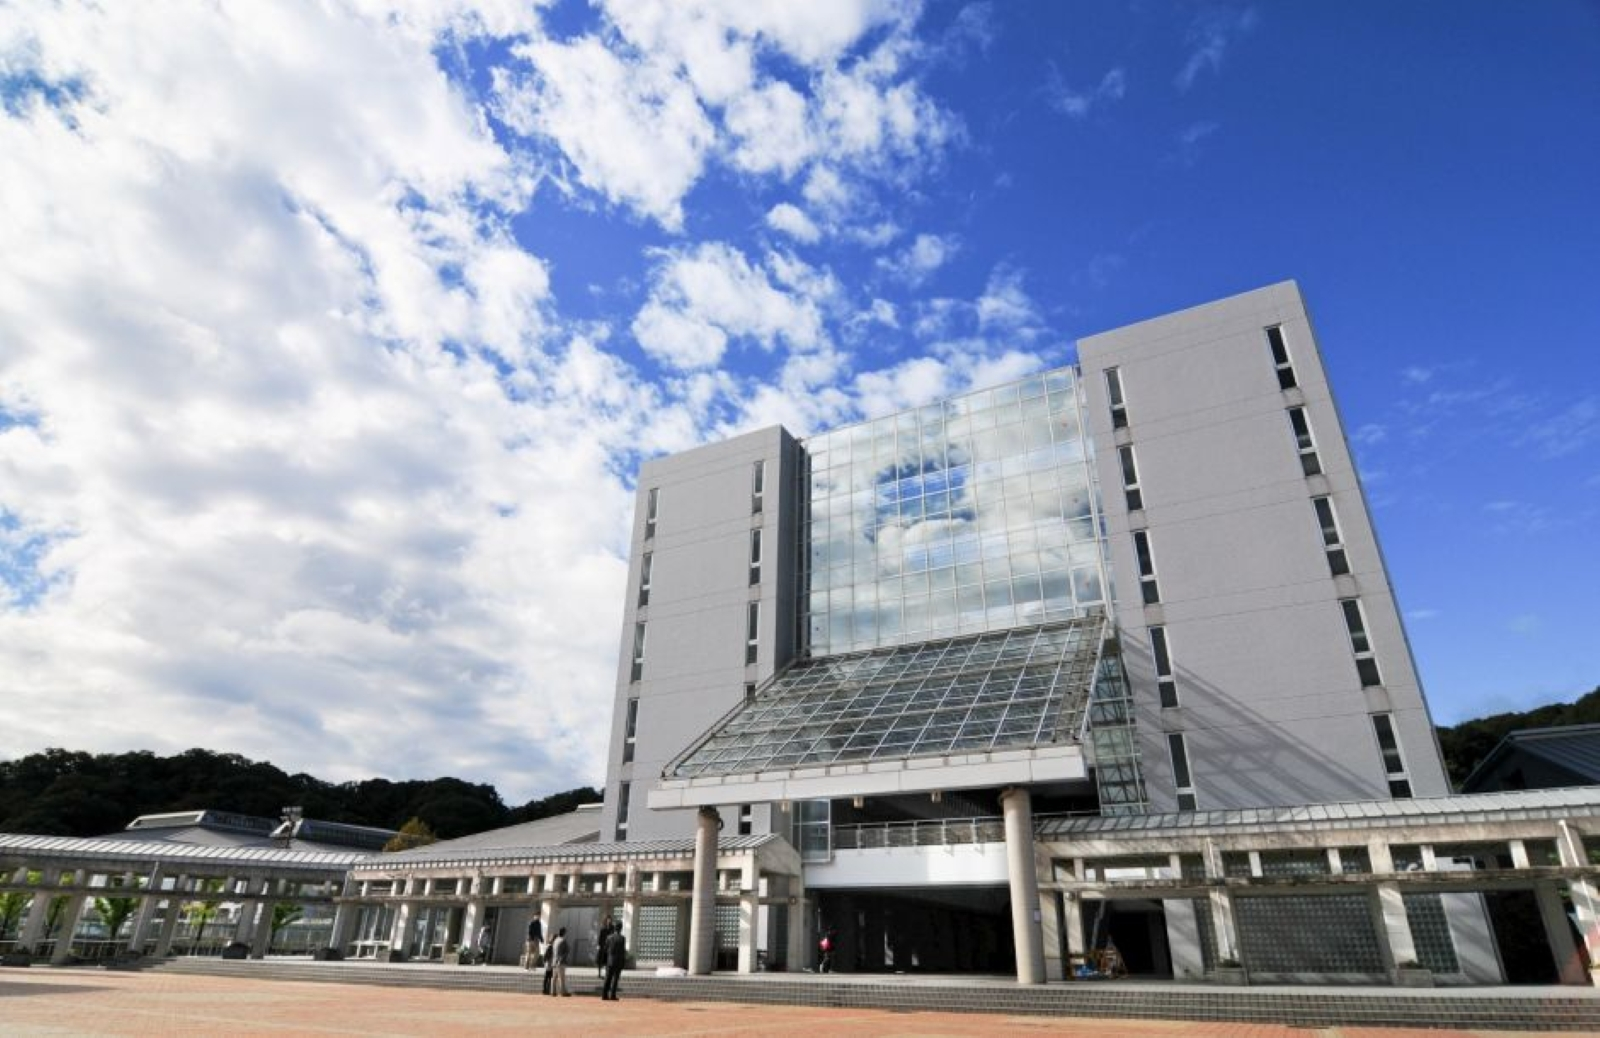
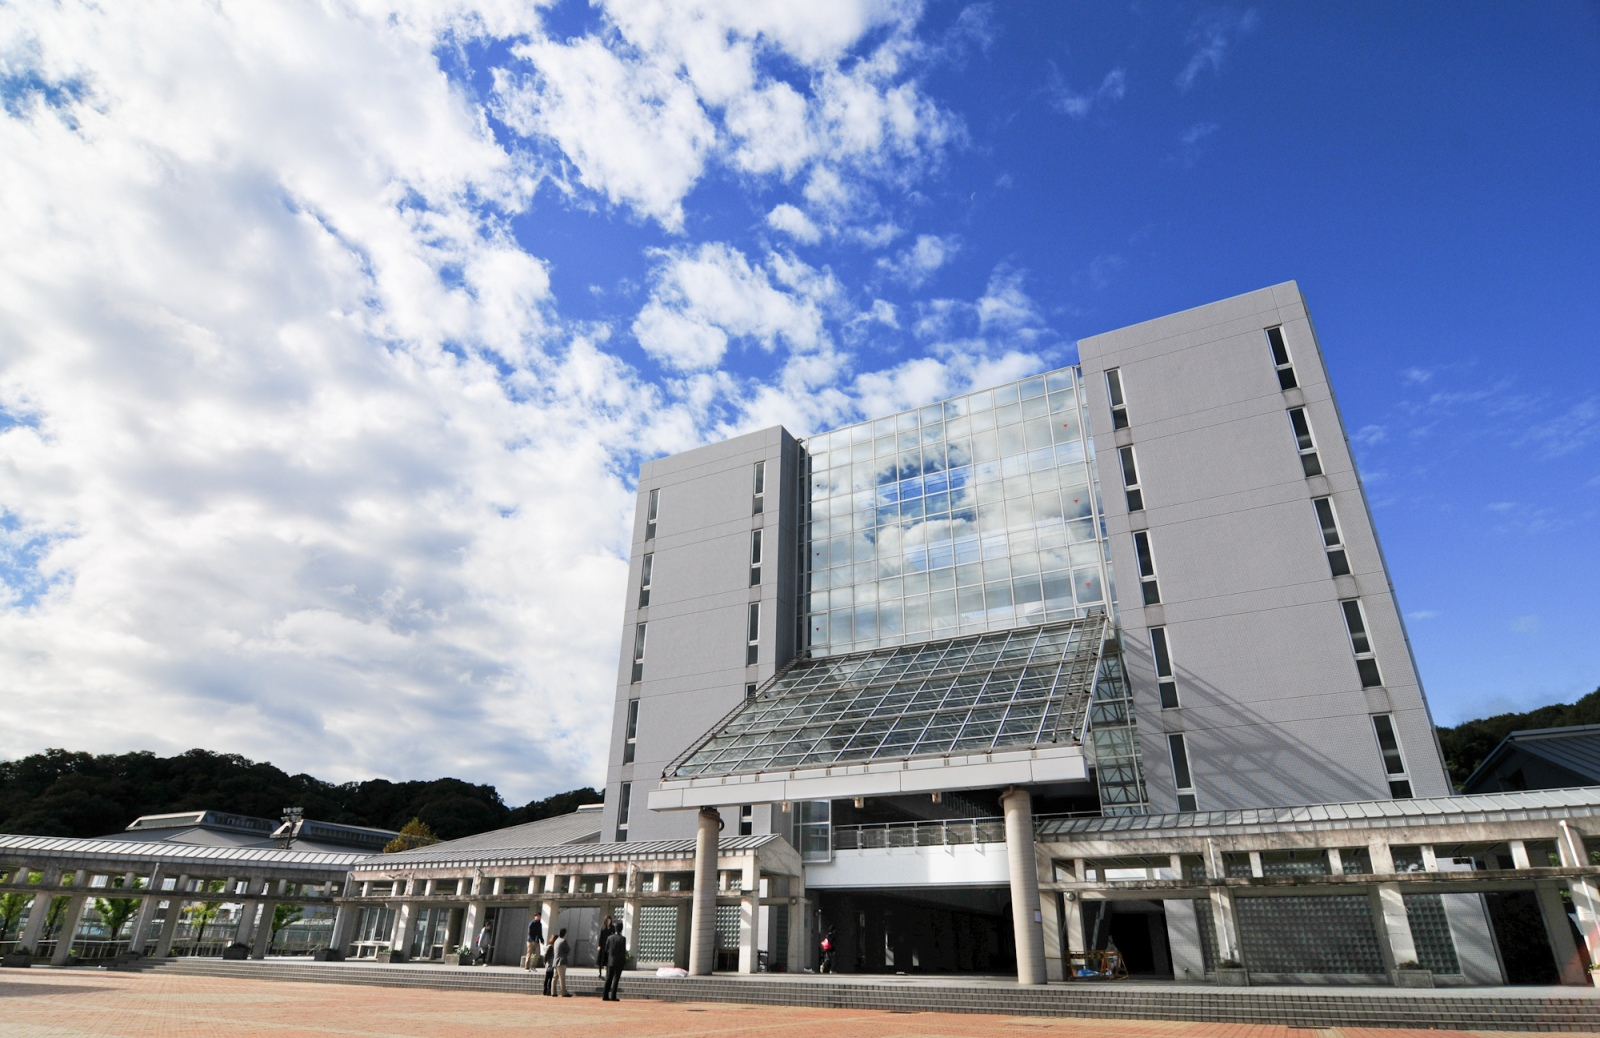
ver2.3
スマホ版に一応対応、google pixel10ならいけた。(厳密には850px以下なら」で指定)

diff --git a/style.css b/style.css
@@ -71,6 +71,12 @@ h2{
     font-size: 30px;
     font-weight: 300
 }
+.work_sheet{
+    text-align: center;
+    color: white;
+    font-size: 30px;
+    font-weight: 300
+}
 
 
 /*場所*/
@@ -89,6 +95,22 @@ h2{
     text-align: right;
     margin-right: 20px;
     transform: translateY(-10px); /* この数値を大きくすると下がる */
+    position: relative;
+    z-index: 2;
+}
+.work_sheet{
+    position: relative;
+    text-align: center;
+    margin-top: 20px;
+    position: relative;
+    z-index: 2;
+}
+.footer{
+    text-align: center;
+    color: black;
+    font-size: 20px;
+    font-weight: 300;
+    margin-top: -300px;
     position: relative;
     z-index: 2;
 }
@@ -120,7 +142,7 @@ h2{
     aspect-ratio: 16 / 9;     /* 【最重要】比率を完璧に16:9の横長に固定する */
     height: auto;       /* 【最重要】高さを元の画像の比率に合わせて自動計算する */
     display: block;
-    margin: -70px auto;     /* 左右中央寄せ */
+    margin: -100px auto;     /* 左右中央寄せ */
     position: relative;
     z-index: 0;
     
@@ -198,3 +220,181 @@ h2{
     flex-shrink: 0;
     border-radius: 100%;
 }
+.footer_box{
+    width: 940px;
+    height: 200px;
+    background-color: #D9D9D9;
+    margin: 150px auto;
+    z-index: 0;
+}
+
+
+@media (max-width: 850px) {
+
+  /* ==========================================
+     スマホ用レイアウト調整（位置・余白）
+     ========================================== */
+    
+    /*大きさ*/
+    h1{
+    font-size: 32px;
+    font-weight: 300;
+    position: relative;
+    z-index: 2;
+    }
+    h2{
+    font-size: 25px;
+    font-weight: 400
+    }
+    .subtitle{
+    color: black;
+    text-align: center;
+    font-size: 30px;
+    font-weight: 300
+    /*ギャラリーとか*/
+    }
+    .main_text{
+    text-align: center;
+    font-size: 18px;
+    font-weight: 300
+    }
+    .thanks{
+    font-size: 35px;
+    }
+    .work_sheet_text{
+    text-align: center;
+    font-size: 16px;
+    font-weight: 300
+    }
+    .work_sheet{
+    text-align: center;
+    color: white;
+    font-size: 16px;
+    font-weight: 300
+    }
+
+
+    .title{
+    margin-left: 10px;
+    margin-top: -10px; /* コメントにあった24pxに調整 */
+    margin-bottom: 0;
+    }
+
+    .date {
+    margin-left: 10px;
+    margin-top: 10px;
+    }
+
+    .thanks {
+    text-align: right;
+    margin-right: 16px;
+    transform: translateY(-5px); /* 引き上げ量を小さく */
+    }
+
+    .work_sheet {
+    text-align: center;
+    margin-top: 20px;
+    }
+
+    .footer {
+    text-align: center;
+    font-size: 14px;
+    margin-top: -80px; /* -300pxから大幅に緩めて位置を補正 */
+    }
+
+    /* PCでのスペース調整用要素の隙間をスマホ向けに補正 */
+    .space-fix {
+    height: 0;
+    margin-top: -90px; /* -260pxから縮小 */
+    }
+
+    .space-fix2 {
+    height: 0;
+    margin-top: 20px;
+    }
+
+    /* 丸要素のコンテナ（横並びから画面に合わせた折り返しへ） */
+    .circle-container {
+    display: flex;
+    justify-content: center;
+    align-items: center;
+    flex-wrap: wrap;
+    gap: 20px; /* 隙間を半分に */
+    width: 100%;
+    margin: 20px auto 0;
+    transform: translateX(0); /* 横ズレを解除して中央寄せ */
+    }
+
+
+    /* ==========================================
+     スマホ用画像調整
+     ========================================== */
+
+    .mainimage {
+    width: 100%; /* 940px固定から画面幅いっぱいに変更 */
+    max-width: 100%;
+    aspect-ratio: 16 / 9;
+    height: auto;
+    display: block;
+    margin: 0 auto; /* マイナスマージンを一度リセット */
+    }
+
+
+    /* ==========================================
+     スマホ用背景・図形要素の調整
+     ========================================== */
+
+    .main_box {
+    background-color: #08024D;
+    width: 100%; /* 幅を100%に */
+    height: auto;
+    }
+
+    /* タイトルバー（上） */
+    .top_title_ber {
+    width: 100%;
+    height: 60px; /* 高さを180pxから縮小 */
+    padding: 15px 20px;
+    transform: translateY(130px);
+    clip-path: polygon(0% 0%, 100% 0%, 100% 55%, 30.5% 55%, 27.5% 100%, 0% 100%);
+    }
+    .space-fix3{
+    height: 0;
+    margin-top: 20px;
+    }
+    /* タイトルバー（下） */
+    .under_title_ber {
+    width: 100%;
+    height: 60px; /* 高さを180pxから縮小 */
+    padding: 15px 20px;
+    transform: translateY(-140px); /* -260pxから位置ずれを補正 */
+    clip-path: polygon(100% 100%, 0% 100%, 0% 45%, 69.5% 45%, 72.5% 0%, 100% 0%);
+    }
+
+    /* 区切り線 */
+    .line {
+    width: 100%;
+    height: 60px; /* 高さを縮小 */
+    clip-path: polygon(0% 0%, 0% 25%, 30% 40%, 30% 60%, 0% 75%, 0% 100%, 100% 100%, 100% 75%, 70% 60%, 70% 40%, 100% 25%, 100% 0%);
+    }
+
+    /* 丸型の要素（画面からはみ出ないようサイズ縮小） */
+    .circle {
+    width: 150px; /* 360pxからスマホサイズ（160px程度）へ */
+    height: 150px;
+    clip-path: circle(50% at 50% 50%);
+    background-color: #D9D9D9;
+    flex-shrink: 0;
+    border-radius: 100%;
+    transform: translateX(12px);
+    }
+
+    /* フッターボックス */
+    .footer_box {
+    width: 100%;
+    height: 120px;
+    margin: 60px auto;
+    }
+
+}
+

diff --git a/index.html b/index.html
@@ -23,6 +23,7 @@
                 <h2 class="np date">2026.10.31 - 11.01</h2>
                 <img class="mainimage" src="images/kosen.jpg" alt="神戸高専"> <!--classはほかの画像にはいらないにょーん-->
                 <p class="ep thanks">Thank you for coming!!</p>
+                <div class="space-fix3"></div>
                 <div class="under_title_ber"></div>
             </div>
             <div class="space-fix"></div>
@@ -57,9 +58,10 @@
                     <p class="subtitle line">アンケート</p>
                     <p class="work_sheet_text">今後の高専祭の運営の参考にさせていただきます。<br>
                     ぜひともアンケートに協力をお願いいたします</p>
-                    <p class="work_asheet">アンケートはこちら</p>
+                    <a href="#" class="work_sheet">アンケートはこちら</a>
                 </div>
             <div>
+                <div class="footer_box"></div>
                 <p class="footer">©2026神戸高専祭実行委員会<br>
                 〒651-2194 兵庫県神戸市西区学園東町8丁目3番地<br>
                 Email: contact@kcctfes.jp</p>
